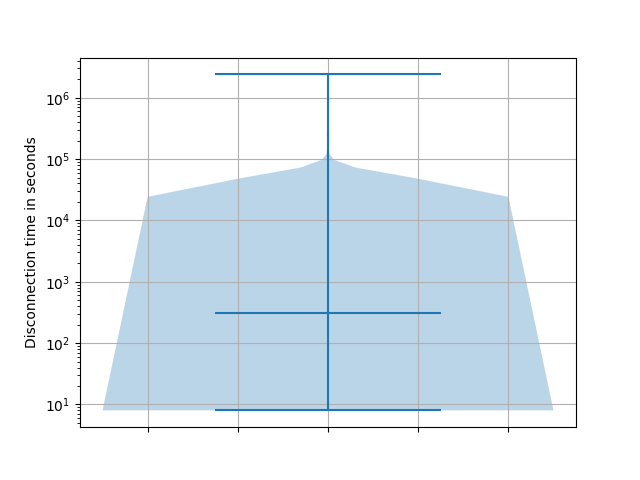
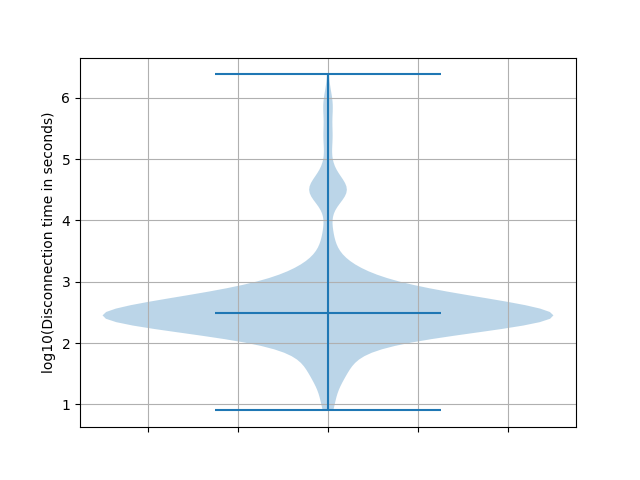
stable plot

Changed region(s): [[0.1562, 0.1875, 0.875, 0.875], [0.0312, 0.1875, 0.125, 0.7812], [0.0625, 0.8438, 0.125, 0.875]]

diff --git a/atlas_outage.py b/atlas_outage.py
@@ -56,12 +56,12 @@ def plot_disco_time(disco_time):
     for d in disco_time.values():
         merge_disco_time = merge_disco_time + d
     fig, ax = plt.subplots()
-    ax.violinplot(merge_disco_time, showmedians=True)
-    ax.set_yscale("log", nonposy='clip')
+    ax.violinplot(np.log10(merge_disco_time), showmedians=True)
+    #ax.set_yscale("log", nonposy='clip')
     ax.grid(True)
     ax.set_xticklabels([])
     ax.set_xticklabels([])
-    plt.ylabel('Disconnection time in seconds')
+    plt.ylabel('log10(Disconnection time in seconds)')
     fig.savefig('disco_time_dist.png')
     plt.close(fig)
 
@@ -70,7 +70,7 @@ if __name__ == "__main__":
     start_time = '1518363868'
     end_time = time.time()
     cc = 'LB'
-
+    #cc = 'NL'
     conn_event, disco_event = get_events(cc,start_time,end_time)
     disco_time = analyze_events(conn_event,disco_event,start_time)
     plot_disco_time(disco_time)
